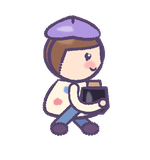
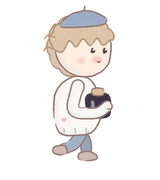
주인공을 사람이 그린 부드러운 일러스트 느낌으로 다시 그림: 가는 연한 밤색 펜 선, 채도 뺀 단색 칠과 옅은 그늘, 몽실한 밀크티빛 머리·베레모·헐렁한 스웨터 (tools/boy_sprite.py)

Changed region(s): [[0.2667, 0.0312, 0.7467, 0.9062]]

diff --git a/tools/boy_sprite.py b/tools/boy_sprite.py
@@ -1,0 +1,254 @@
+"""준비 화면 주인공(꼬마 화가) 스프라이트. 사람이 그린 부드러운 일러스트 느낌으로 그린다.
+
+- 선: 가늘고 연한 밤색 펜 선. 굵기가 천천히 변하고 끝이 가늘다. 닫힌 모양도 두세 번에 나눠 긋는다
+- 색: 채도를 뺀 부드러운 단색 칠 + 빛 반대쪽(왼쪽 아래)에 옅은 푸른 그늘
+- 머리: 몽실몽실한 윤곽에 가는 머리카락 결, 바람에 날리는 몇 가닥
+- 큰 머리, 헐렁한 스웨터, 짧은 다리. 검은 잉크통을 두 팔로 꼭 안고 달린다
+"""
+import math
+
+import numpy as np
+from PIL import Image, ImageDraw, ImageFilter
+
+from sketch import Sheet, ellipse_points, _wobble
+
+SPRITE = (160, 180)
+FEET = 168              # 스프라이트 안 발바닥 y (PIL)
+LINE = (142, 112, 104)  # 펜 선: 연한 밤색
+WHITE = (255, 255, 255)
+SKIN = (255, 238, 226)
+CHEEK = (250, 176, 170)
+HAIR = (222, 196, 166)        # 밀크티빛 머리
+HAIR_LINE = (176, 140, 112)
+BERET = (156, 172, 196)       # 먼지 낀 하늘빛 베레모
+SWEATER = (250, 248, 244)     # 헐렁한 흰 스웨터
+PANTS = (160, 178, 198)
+SHOE = (206, 186, 172)
+INK_BLACK = (58, 52, 66)
+SHADE = (190, 196, 222)       # 그늘에 섞는 푸른 회색
+
+# 프레임별 자세: (몸 들썩임, 앞다리 (허벅지, 정강이), 뒷다리, 팔 흔들림)  각도 0 = 아래, + = 앞(오른쪽)
+POSES = (
+    (0.0, (0.7, 0.1), (-0.5, -1.1), 0.0),
+    (-4.0, (0.25, -0.7), (-0.05, 0.25), 1.0),
+    (0.0, (-0.5, -1.1), (0.7, 0.1), 2.0),
+)
+
+
+# ---------------------------------------------------------------- 곡선·선·칠 도우미
+def smooth(ctrl, closed=True, n=10):
+    """조절점을 지나는 캣멀롬 곡선."""
+    pts = list(ctrl)
+    m = len(pts)
+    out = []
+    rng = range(m) if closed else range(m - 1)
+    for i in rng:
+        p0 = pts[(i - 1) % m] if closed else pts[max(0, i - 1)]
+        p1, p2 = pts[i], pts[(i + 1) % m]
+        p3 = pts[(i + 2) % m] if closed else pts[min(m - 1, i + 2)]
+        for k in range(n):
+            t = k / n
+            t2, t3 = t * t, t * t * t
+            out.append(tuple(0.5 * (2 * p1[j] + (-p0[j] + p2[j]) * t + (2 * p0[j] - 5 * p1[j] + 4 * p2[j] - p3[j]) * t2
+                                    + (-p0[j] + 3 * p1[j] - 3 * p2[j] + p3[j]) * t3) for j in range(2)))
+    if not closed:
+        out.append(pts[-1])
+    return out
+
+
+def pen(sh, pts, width=1.3, color=LINE, alpha=235):
+    """한 번 긋는 펜 선: 도장을 촘촘히 찍어 끊김이 없고, 끝이 가늘어지고 아주 살짝 떨린다."""
+    ss = sh.ss
+    pts = _wobble([(x * ss, y * ss) for x, y in pts], 0.3 * ss, sh.rng, 0.3 * ss)
+    n = len(pts)
+    fill = tuple(color) + (alpha,)
+    press = 1.0
+    for i, (x, y) in enumerate(pts):
+        t = i / max(1, n - 1)
+        k = min(1.0, 0.35 + min(t, 1 - t) * 6)        # 시작·끝이 가늘다
+        press = press * 0.97 + sh.rng.uniform(0.85, 1.12) * 0.03   # 누르는 힘이 천천히 변한다
+        r = width * ss / 2 * k * press
+        sh.draw.ellipse((x - r, y - r, x + r, y + r), fill=fill)
+
+
+def outline(sh, pts, width=1.3, color=LINE, pieces=2):
+    """닫힌 모양을 몇 번에 나눠 긋는다. 조각끼리 살짝 겹치거나 틈이 난다."""
+    n = len(pts)
+    start = sh.rng.randrange(n)
+    ring = pts[start:] + pts[:start]
+    cuts = sorted(sh.rng.sample(range(n // 5, n - n // 5), pieces - 1)) if pieces > 1 else []
+    bounds = [0] + cuts + [n]
+    for a, b in zip(bounds, bounds[1:]):
+        lo = max(0, a - sh.rng.randint(-1, 3))
+        hi = min(n, b + sh.rng.randint(0, 2))
+        seg = ring[lo:hi]
+        if len(seg) > 2:
+            pen(sh, seg, width * sh.rng.uniform(0.9, 1.08), color)
+
+
+def open_line(sh, pts, width=1.3, color=LINE, pieces=1):
+    """열린 곡선을 몇 번에 나눠 긋는다 (끝과 처음을 잇지 않는다)."""
+    n = len(pts)
+    cuts = sorted(sh.rng.sample(range(n // 4, n - n // 4), pieces - 1)) if pieces > 1 else []
+    bounds = [0] + cuts + [n]
+    for a, b in zip(bounds, bounds[1:]):
+        seg = pts[max(0, a - sh.rng.randint(0, 3)):b]
+        if len(seg) > 2:
+            pen(sh, seg, width * sh.rng.uniform(0.9, 1.08), color)
+
+
+def paint(sh, pts, color, alpha=255, shade=0.18, light=(3.5, -3.0)):
+    """부드러운 단색 칠 + 빛 반대쪽(왼쪽 아래)에 옅은 푸른 그늘."""
+    ss = sh.ss
+    big = sh.img.size
+
+    def mask(dx=0.0, dy=0.0):
+        m = Image.new('L', big, 0)
+        ImageDraw.Draw(m).polygon([((x + dx) * ss, (y + dy) * ss) for x, y in pts], fill=255)
+        return np.asarray(m.filter(ImageFilter.GaussianBlur(0.5 * ss)), np.float32) / 255
+
+    base = mask()
+    lit = mask(*light)
+    band = Image.fromarray((base * (1 - lit) * 255).astype(np.uint8)).filter(ImageFilter.GaussianBlur(1.6 * ss))
+    shadow = np.asarray(band, np.float32) / 255 * base
+    dark = tuple(int(c * (1 - shade) + s * shade) for c, s in zip(color, SHADE))
+    for col, a in ((color, base * alpha), (dark, shadow * 255)):
+        layer = Image.new('RGBA', big, tuple(col) + (0,))
+        layer.putalpha(Image.fromarray(np.clip(a, 0, 255).astype(np.uint8)))
+        sh.img.alpha_composite(layer)
+
+
+def limb(path, r0, r1, n=6):
+    """path(곡선) 를 따라 굵기가 r0→r1 로 변하는 한 덩어리 팔·다리 (관절에서 끊기지 않는다)."""
+    path = smooth(path, closed=False, n=8)
+    m = len(path)
+    left, right = [], []
+    for i, (x, y) in enumerate(path):
+        j0, j1 = max(0, i - 1), min(m - 1, i + 1)
+        dx, dy = path[j1][0] - path[j0][0], path[j1][1] - path[j0][1]
+        ln = math.hypot(dx, dy) or 1
+        nx, ny = -dy / ln, dx / ln
+        r = r0 + (r1 - r0) * i / (m - 1)
+        left.append((x + nx * r, y + ny * r))
+        right.append((x - nx * r, y - ny * r))
+
+    def cap(p, a0, r):
+        return [(p[0] + math.cos(a0 - math.pi * k / n) * r, p[1] + math.sin(a0 - math.pi * k / n) * r)
+                for k in range(1, n)]
+    a_end = math.atan2(path[-1][1] - path[-2][1], path[-1][0] - path[-2][0])
+    a_start = math.atan2(path[1][1] - path[0][1], path[1][0] - path[0][0])
+    return left + cap(path[-1], a_end + math.pi / 2, r1) + right[::-1] + cap(path[0], a_start - math.pi / 2, r0)
+
+
+def _joint(p, a, ln):
+    return (p[0] + math.sin(a) * ln, p[1] + math.cos(a) * ln)
+
+
+def fluffy(cx, cy, rx, ry, a0, a1, bumps, depth, n=120):
+    """몽실몽실한 머리 윤곽: 각도 a0→a1 사이에 작은 혹들."""
+    pts = []
+    for i in range(n + 1):
+        t = i / n
+        a = a0 + (a1 - a0) * t
+        k = 1 + depth * abs(math.sin(t * bumps * math.pi)) ** 0.7
+        pts.append((cx + math.cos(a) * rx * k, cy + math.sin(a) * ry * k))
+    return pts
+
+
+# ---------------------------------------------------------------- 몸 부분
+def leg(sh, hip, pose, behind):
+    knee = _joint(hip, pose[0], 17)
+    foot = _joint(knee, pose[1], 15)
+    shape = limb([hip, knee, foot], 6.4, 4.6)
+    paint(sh, shape, tuple(int(c * 0.93) for c in PANTS) if behind else PANTS)
+    outline(sh, shape, 1.2, pieces=2)
+    toe = 1 if pose[1] > -0.6 else 0.5
+    shoe = smooth([(foot[0] - 7, foot[1] - 3), (foot[0] + 2, foot[1] - 4.5), (foot[0] + 10 * toe, foot[1] - 1),
+                   (foot[0] + 10 * toe, foot[1] + 3.5), (foot[0] - 1, foot[1] + 5), (foot[0] - 8, foot[1] + 2.5)], n=4)
+    paint(sh, shoe, SHOE)
+    outline(sh, shoe, 1.2, pieces=1)
+
+
+def head(sh, hx, hy, swing):
+    face = smooth([(hx - 26, hy - 4), (hx - 18, hy - 24), (hx + 2, hy - 30), (hx + 22, hy - 22), (hx + 29, hy - 2),
+                   (hx + 25, hy + 18), (hx + 10, hy + 28), (hx - 10, hy + 26), (hx - 24, hy + 12)], n=8)
+    # 뒷머리 (얼굴 뒤로 둥글게)
+    back = fluffy(hx - 3, hy - 2, 30, 30, math.pi * 0.55, math.pi * 1.6, 6, 0.08)
+    paint(sh, back + [(hx + 4, hy - 8), (hx - 6, hy + 10)], HAIR)
+    paint(sh, face, SKIN)
+    sh.wash(hx + 15, hy + 12, 5, 3.4, CHEEK, alpha=150, layers=2, blur=1.4)
+    sh.wash(hx - 1, hy + 13, 4, 2.6, CHEEK, alpha=100, layers=2, blur=1.4)
+    open_line(sh, face[len(face) * 2 // 5:], 1.3)   # 얼굴 앞·아래 윤곽만
+    # 앞머리: 이마를 덮는 몽실한 앞머리, 끝이 몇 갈래로 갈라진다
+    bangs = fluffy(hx, hy - 4, 31, 28, math.pi * 1.0, math.pi * 1.95, 7, 0.07)
+    bangs += smooth([(hx + 28, hy - 8), (hx + 21, hy - 3), (hx + 15, hy - 10), (hx + 8, hy - 2), (hx + 1, hy - 9),
+                     (hx - 6, hy - 1), (hx - 13, hy - 7), (hx - 20, hy + 4), (hx - 29, hy + 1)], False, 4)
+    paint(sh, bangs, HAIR)
+    open_line(sh, back, 1.3, HAIR_LINE, pieces=2)
+    outline(sh, bangs, 1.3, HAIR_LINE, pieces=3)
+    for k in range(9):    # 머리카락 결
+        a = math.pi * (1.1 + 0.085 * k)
+        x0, y0 = hx + math.cos(a) * 25, hy - 4 + math.sin(a) * 22
+        pen(sh, [(x0, y0), (x0 + math.cos(a + 2.3) * 7, y0 + math.sin(a + 2.3) * 7)], 0.8, HAIR_LINE, 130)
+    for k, (bx, by, ln) in enumerate(((-29, -10, 9), (-31, 2, 7), (-22, -22, 8))):   # 뒤로 날리는 가닥
+        x0, y0 = hx + bx, hy + by
+        pen(sh, smooth([(x0 + 3, y0), (x0 - ln * 0.6, y0 - 2 + math.sin(swing * 2 + k)), (x0 - ln, y0 + 1.5)],
+                       False, 5), 1.0, HAIR_LINE)
+    # 베레모: 정수리에 비스듬히
+    beret = smooth([(hx - 22, hy - 22), (hx - 10, hy - 34), (hx + 8, hy - 37), (hx + 24, hy - 30), (hx + 20, hy - 23),
+                    (hx - 2, hy - 21)], n=6)
+    paint(sh, beret, BERET)
+    outline(sh, beret, 1.3, pieces=2)
+    pen(sh, [(hx + 2, hy - 37), (hx + 3, hy - 42)], 1.4)
+    # 얼굴: 반짝이는 동그란 눈 (먼 눈은 조금 작게), 작은 입
+    for ex, sc in ((hx + 11, 1.0), (hx + 23, 0.85)):
+        sh.wash(ex, hy + 3, 2.4 * sc, 3.1 * sc, (96, 72, 70), alpha=255, layers=1, blur=0.2)
+        sh.wash(ex + 0.8, hy + 1.8, 0.9 * sc, 0.9 * sc, WHITE, alpha=255, layers=1, blur=0.1)
+    pen(sh, smooth([(hx + 15, hy + 13), (hx + 17, hy + 14.5), (hx + 19, hy + 13)], False, 4), 1.0)
+
+
+def boy(frame):
+    bob, front, back, swing = POSES[frame]
+    sh = Sheet(*SPRITE, seed=460 + frame, ss=4)
+    sh.line = LINE
+    cx = 76
+    y = bob
+    hip = (cx + 2, 128 + y)
+
+    leg(sh, (hip[0] - 4, hip[1]), back, True)
+    leg(sh, (hip[0] + 5, hip[1]), front, False)   # 두 다리 모두 스웨터 뒤에서 나온다
+
+    # 헐렁한 스웨터: 어깨가 둥글고 아래로 퍼지며, 아랫단이 뛰느라 살짝 날린다
+    flap = math.sin(swing * 2.1) * 1.5
+    sweater = smooth([(cx - 6, 78 + y), (cx + 12, 78 + y), (cx + 22, 92 + y), (cx + 25, 116 + y),
+                      (cx + 16, 133 + y + flap), (cx, 135 + y), (cx - 16, 132 + y - flap), (cx - 22, 116 + y),
+                      (cx - 20, 92 + y)], n=8)
+    paint(sh, sweater, SWEATER)
+    outline(sh, sweater, 1.4, pieces=3)
+    for k in range(3):   # 아랫단 고무단 결
+        x0 = cx - 12 + k * 11
+        pen(sh, [(x0, 128 + y), (x0 + 0.5, 133 + y)], 0.9, alpha=140)
+    for dx, dy, col in ((-12, 120, (244, 160, 168)), (12, 112, (150, 204, 176))):
+        sh.wash(cx + dx, dy + y, 2.0, 1.6, col, alpha=200, layers=2, blur=0.5, wobble=0.3)   # 물감 묻은 자국
+
+    head(sh, cx + 6, 48 + y, swing)
+
+    # 두 팔로 꼭 안은 검은 잉크통
+    bx, by = cx + 22, 104 + y
+    jar = smooth([(bx - 10, by - 9), (bx + 10, by - 9), (bx + 12, by + 7), (bx + 8, by + 13), (bx - 8, by + 13),
+                  (bx - 12, by + 7)], n=5)
+    paint(sh, jar, INK_BLACK, shade=0.0)
+    sh.wash(bx - 5, by + 1, 1.6, 5, (200, 196, 216), alpha=170, layers=1, blur=0.6)   # 유리 반짝임
+    outline(sh, jar, 1.3, (60, 48, 60), pieces=2)
+    cork = smooth([(bx - 5, by - 9), (bx - 5, by - 15), (bx + 5, by - 15), (bx + 5, by - 9)], n=3)
+    paint(sh, cork, (222, 188, 150))
+    outline(sh, cork, 1.1, pieces=1)
+    # 소매가 긴 팔: 어깨 → 팔꿈치 → 잉크통 앞으로 감싼다
+    shoulder = (cx + 2, 86 + y)
+    hand = (bx + 9, by + 3 - swing * 0.4)
+    arm = limb([shoulder, (cx - 2, by + 6), (bx - 2, by + 9), hand], 6.0, 5.2)
+    paint(sh, arm, SWEATER)
+    outline(sh, arm, 1.3, pieces=2)
+    sh.wash(hand[0] + 2, hand[1], 3.2, 3.0, SKIN, alpha=255, layers=1, blur=0.4)
+    pen(sh, ellipse_points(hand[0] + 2, hand[1], 3.3, 3.0, 14, -1.2, 3.4), 1.0)
+    return sh.result()

diff --git a/tools/gen_prepare.py b/tools/gen_prepare.py
@@ -152,96 +152,8 @@ def ground():
     return wrapped(draw, 331, gh)
 
 
-# ================================================================ 소년
-# 작고 동글동글한 꼬마 화가: 큰 머리, 밤색 단발, 비스듬한 베레모, 물감 묻은 작업복, 짧은 다리.
-# 검은 잉크통을 두 팔로 꼭 안고 달린다.
-SPRITE = (150, 160)
-FEET = 144              # 스프라이트 안 발바닥 y (PIL) — 실행 중 땅에 맞춘다
-SKIN = (255, 230, 212)
-HAIR = (150, 104, 84)   # 밤색 머리
-BERET = (176, 150, 222) # 라벤더 베레모
-SMOCK = (255, 246, 226) # 크림색 작업복
-PANTS = (120, 150, 196)
-SHOE = (110, 84, 120)
-
-# 프레임별 자세: (몸 들썩임, 앞다리 각도, 뒷다리 각도, 몸 기울기)  — 0 이 아래, + 가 앞(오른쪽)
-POSES = (
-    (0, 0.8, -0.8, 0.0),     # 0: 다리를 앞뒤로 벌림
-    (-5, 0.15, -0.1, 1.0),   # 1: 다리를 모으고 통통 뜸
-    (0, -0.8, 0.8, 2.0),     # 2: 반대 다리
-)
-
-
-def _short_leg(sh, hip, ang, color):
-    ln = 27
-    foot = (hip[0] + math.sin(ang) * ln, hip[1] + math.cos(ang) * ln)
-    sh.stroke([hip, foot], 13, PLUM, amp=0.2, taper=False)
-    sh.stroke([hip, foot], 8, color, amp=0.1, taper=False)
-    shoe = ellipse_points(foot[0] + 3, foot[1] + 2, 8, 5.5, 18)
-    sh.fill_poly(shoe, SHOE)
-    sh.stroke(shoe, 2.8, amp=0.2)
-
-
-def boy(frame):
-    bob, front, back, phase = POSES[frame]
-    sh = Sheet(*SPRITE, seed=400 + frame, ss=3)
-    sh.line = PLUM
-    cx = 72
-    hip_y = 108 + bob
-    body_top = 80 + bob
-    hx, hy = cx + 4, 56 + bob      # 머리 중심
-
-    _short_leg(sh, (cx - 4, hip_y), back, (100, 128, 176))
-
-    # 작업복: 아래가 살짝 퍼진 동그란 몸통
-    smock = bezier((cx - 14, body_top), (cx - 30, body_top + 18), (cx - 30, hip_y + 4), (cx - 22, hip_y + 6), 14) +         bezier((cx - 22, hip_y + 6), (cx - 6, hip_y + 11), (cx + 10, hip_y + 11), (cx + 24, hip_y + 6), 14)[1:] +         bezier((cx + 24, hip_y + 6), (cx + 30, hip_y), (cx + 26, body_top + 16), (cx + 14, body_top), 14)[1:]
-    sh.fill_poly(smock, SMOCK)
-    for (dx, dy, col) in ((-14, 22, (240, 140, 150)), (8, 30, (110, 190, 150)), (-4, 10, (120, 160, 230))):
-        sh.wash(cx + dx, body_top + dy, 4.5, 3.5, col, alpha=230, layers=2, blur=0.8)   # 물감 얼룩
-    sh.stroke(smock + [smock[0]], 3.2, amp=0.4)
-
-    _short_leg(sh, (cx + 4, hip_y), front, PANTS)
-
-    # 큰 동그란 머리
-    face = ellipse_points(hx, hy, 27, 26, 44)
-    sh.fill_poly(face, SKIN)
-    sh.wash(hx + 14, hy + 9, 6, 4, (250, 168, 168), alpha=180, layers=2, blur=1.5)   # 볼
-    # 밤색 단발: 뒤통수를 덮고 앞머리는 일자로
-    hair = ellipse_points(hx - 2, hy - 2, 29, 27, 40, math.pi * 0.62, math.pi * 1.46)
-    hair += bezier((hx + 25, hy - 12), (hx + 14, hy - 6), (hx - 2, hy - 8), (hx - 10, hy - 6), 10)
-    hair += bezier((hx - 10, hy - 6), (hx - 14, hy + 4), (hx - 18, hy + 14), (hx - 16, hy + 22), 10)
-    sh.fill_poly(hair, HAIR)
-    sh.wash(hx - 10, hy - 16, 9, 5, (200, 150, 120), alpha=170, layers=2, blur=1.5)
-    sh.stroke(face, 3.2, amp=0.4)
-    sh.stroke(hair + [hair[0]], 2.8, amp=0.4)
-    # 비스듬한 베레모 + 꼭지
-    beret = ellipse_points(hx - 3, hy - 21, 27, 10, 36)
-    beret = [(x, y - max(0, 8 - abs(x - hx + 4) * 0.25)) for x, y in beret]
-    sh.fill_poly(beret, BERET)
-    sh.wash(hx - 10, hy - 27, 9, 3, (230, 220, 250), alpha=170, layers=1, blur=1)
-    sh.stroke(beret + [beret[0]], 3.0, amp=0.3)
-    sh.stroke([(hx - 3, hy - 33), (hx - 1 - phase, hy - 40)], 3.0, amp=0.1)
-    # 얼굴: 동그란 눈, 작은 입
-    sh.wash(hx + 12, hy + 1, 3.2, 3.8, PLUM, alpha=255, layers=1, blur=0.3)
-    sh.wash(hx + 13, hy - 0.5, 1.0, 1.0, WHITE, alpha=255, layers=1, blur=0.1)
-    sh.stroke(bezier((hx + 14, hy + 12), (hx + 16, hy + 15), (hx + 19, hy + 15), (hx + 20, hy + 12), 6), 2.0, amp=0.05)
-
-    # 검은 잉크통을 두 팔로 꼭 안는다
-    bx, by = cx + 22, body_top + 18
-    jar = [(bx - 12, by - 10), (bx - 14, by + 9), (bx - 9, by + 15), (bx + 9, by + 15), (bx + 14, by + 9),
-           (bx + 12, by - 10)]
-    sh.fill_poly(jar, INK_BLACK)
-    sh.wash(bx - 5, by + 1, 3, 7, (150, 140, 170), alpha=170, layers=2, blur=1)
-    cork = [(bx - 7, by - 10), (bx - 6, by - 17), (bx + 6, by - 17), (bx + 7, by - 10)]
-    sh.fill_poly(cork, (210, 170, 130))
-    sh.stroke(jar + [jar[0]], 3.0, amp=0.3)
-    sh.stroke(cork, 2.4, amp=0.2)
-    arm = bezier((cx + 2, body_top + 8), (cx - 2, by + 12), (bx - 4, by + 14), (bx + 8, by + 6 - bob * 0.3), 12)
-    sh.stroke(arm, 11, PLUM, amp=0.1, taper=False)
-    sh.stroke(arm, 6.5, SMOCK, amp=0.1, taper=False)
-    sh.wash(bx + 9, by + 5 - bob * 0.3, 4, 4, SKIN, alpha=255, layers=1, blur=0.4)
-    sh.ellipse(bx + 9, by + 5 - bob * 0.3, 4, 4, 2.2, amp=0.1)
-    return sh.result()
+# ================================================================ 소년 (tools/boy_sprite.py)
+from boy_sprite import boy, FEET  # noqa: E402
 
 
 def shadow():

diff --git a/prepare_mode.py b/prepare_mode.py
@@ -20,8 +20,8 @@ from ui_button import Button
 W, H = 1280, 720
 GROUND = 160            # 땅 윗선 (pico y). tools/gen_prepare.py 의 GROUND_Y(PIL 560) 와 같은 자리
 BOY_X = 400             # 소년이 달려와 멈추는(제자리 달리기) x
-BOY_SCALE = 0.75
-BOY_FEET = 144 - 80     # 스프라이트 가운데에서 발바닥까지 (gen_prepare.FEET, 스프라이트 높이 160)
+BOY_SCALE = 0.8
+BOY_FEET = 168 - 90     # 스프라이트 가운데에서 발바닥까지 (boy_sprite.FEET, 스프라이트 높이 180)
 ENTER_TIME = 1.6        # 왼쪽 밖에서 BOY_X 까지 달려 들어오는 시간
 RUN_FPS = 10
 RUN_CYCLE = (0, 1, 2, 1)
